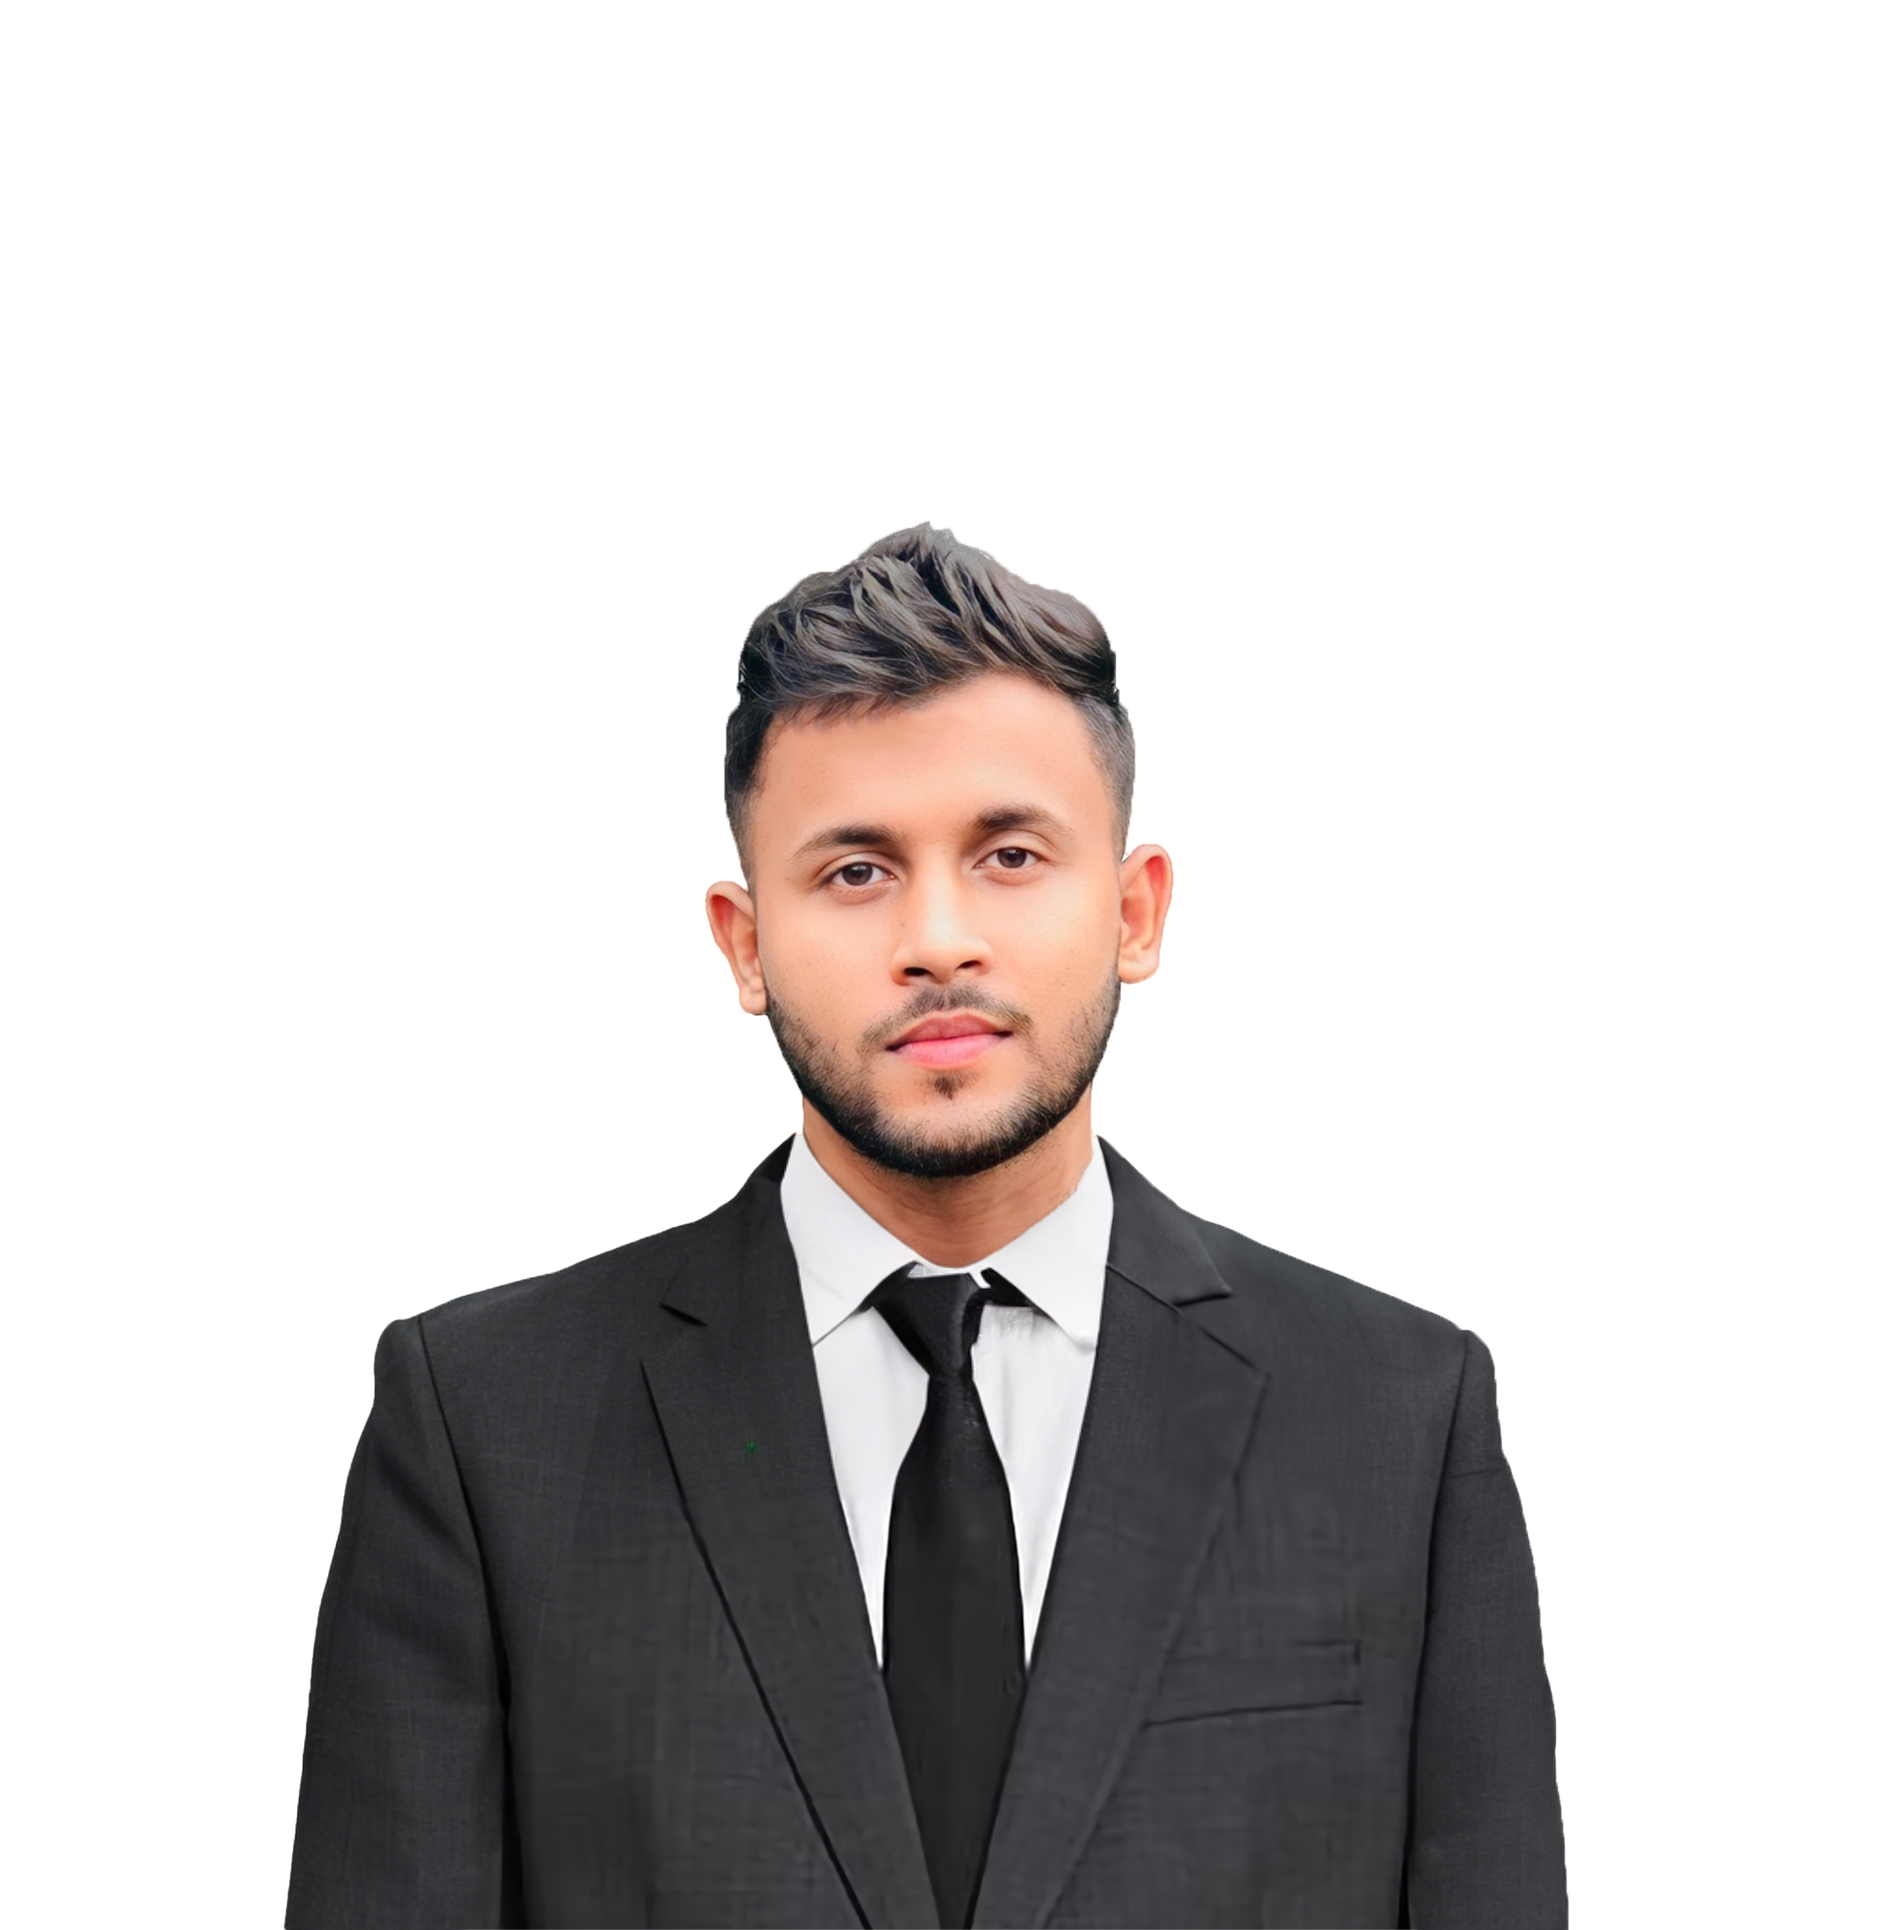
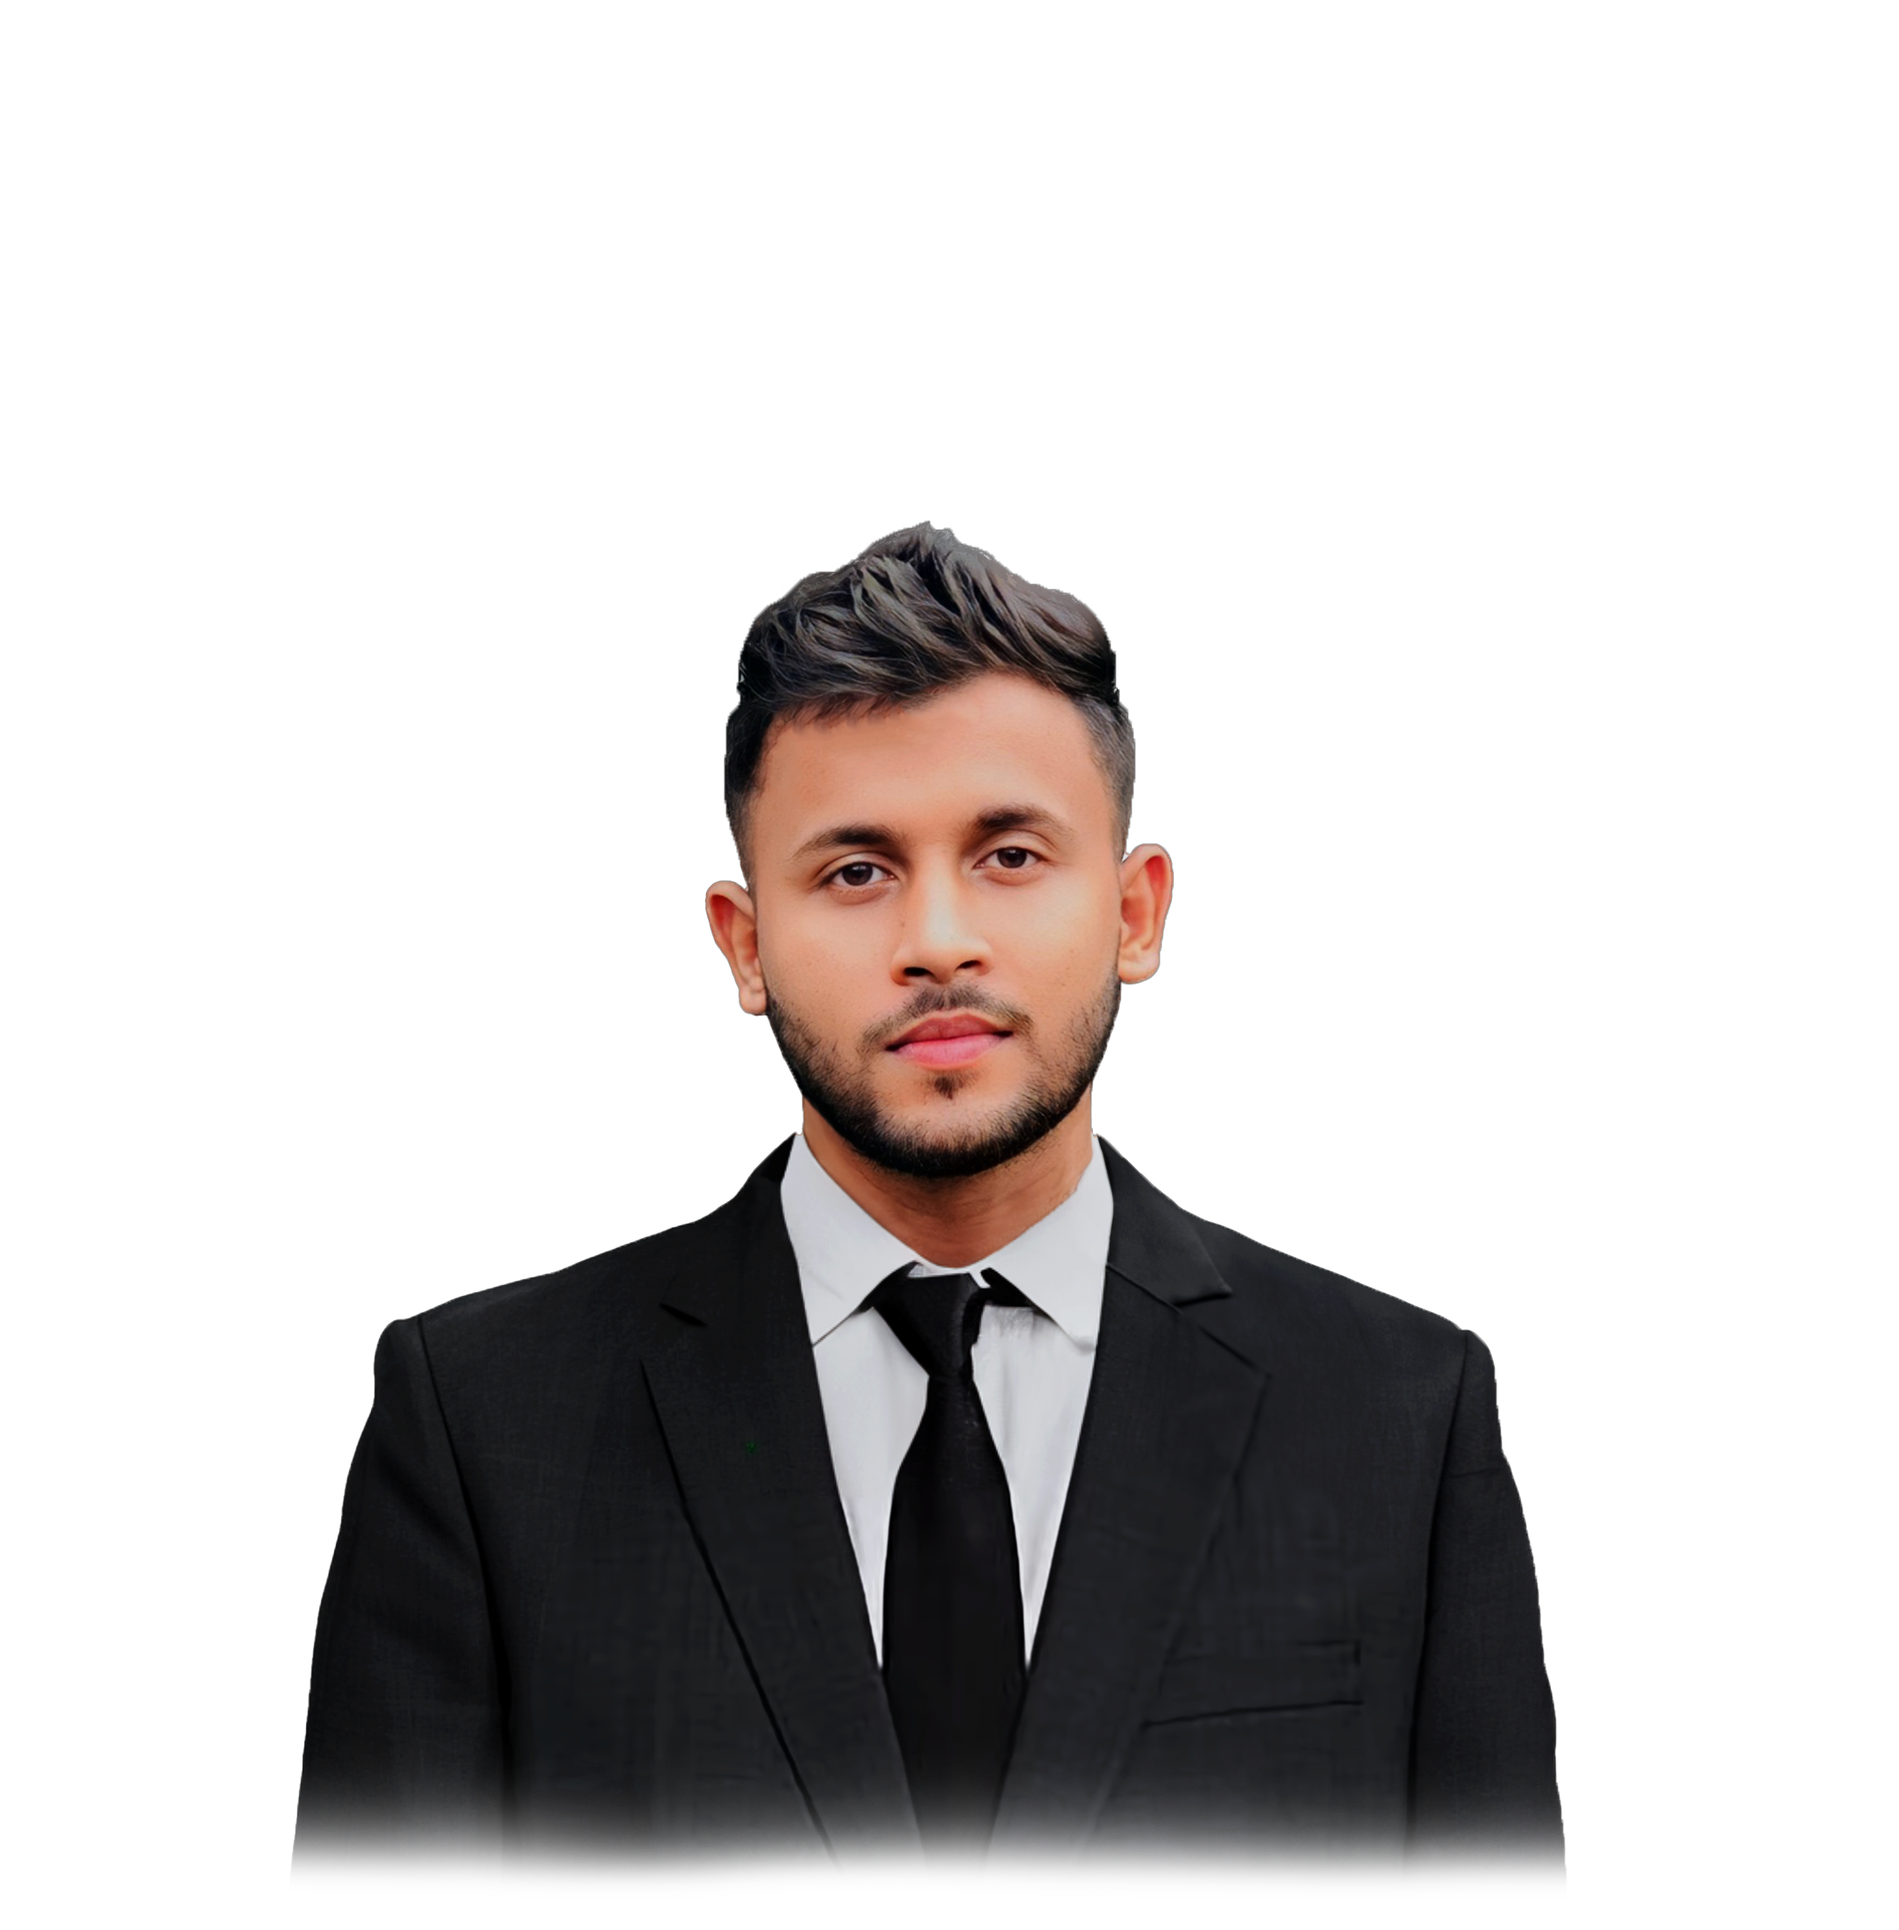
portfolio update

Changed region(s): [[0.1238, 0.2473, 0.8356, 1.0]]

diff --git a/Edu.html b/Edu.html
@@ -10,7 +10,6 @@
     <link href='https://unpkg.com/boxicons@2.1.4/css/boxicons.min.css' rel="stylesheet">
 </head>
 <body>
-    
    <div class="bg-img">
     <header class="header-box">
         <nav class="navbar">
@@ -20,31 +19,39 @@
                 <a href="index.html" style="color:cornflowerblue;">Home</a>
                 <a href="about.html">About</a>
                 <a href="contact.html">Contact</a>
-                 <a href="service.html">Service</a>
-                 <a href="Edu.html">Education</a>
-                </div>
-
+                <a href="service.html">Service</a>
+                <a href="Edu.html">Education</a>
+            </div>
         </nav>
-       
     </header>
-    <main class="about-box">
-        <div class="about-me">
-            <h1>
-                About me
-            </h1>
-            <div class="about-content">
-                <p>Certainly! As a frontend developer, my role is to bring creative designs to life on the web. I'm fluent in the languages of the web: HTML, CSS, and JavaScript. I take pride in crafting pixel-perfect, responsive layouts that work seamlessly across various devices and browsers.Collaboration is at the core of my work, as I liaise with designers to transform their concepts into code and with backend developers to integrate frontend and backend systems. My mission is to create visually appealing, user-friendly websites that leave a lasting impression.</p>
-                <h3>Email:<br><a href="#">jahidhasan19368@gmail.com</a></h3>
 
+
+
+    <main>
+
+        <div class="services">
+            <h1>
+                
+               <span style="color: rgb(255, 136, 0);">My</span>  Education
+            </h1>
+            <p>Craft a portfolio without prior services by highlighting skills, personal projects, and education. Establish an online presence, network, and emphasize transferable abilities to demonstrate your potential.</p>
+            <div class="service-box">
+                <div class="service-content">
+                   
+                </div>
             </div>
         </div>
     </main>
+
+
+
+
     <footer class="footer-box">
      <div class="footer-icon">
         <a href="https://www.facebook.com/Zahid.Hasan.672" target="_blank" class="fa-brands fa-facebook"></a>
         <a href="" class="fa-brands fa-twitter" target="_blank"></a>
-        <a href="" class="fa-brands fa-instagram"  target="_blank"></a>
-        <a target="_blank" href="https://github.com/ZaHiD-HaSaN-72" class="fa-brands fa-github"></a>
+        <a href="" class="fa-brands fa-instagram" target="_blank"></a>
+        <a href="https://github.com/ZaHiD-HaSaN-72" class="fa-brands fa-github" target="_blank"></a>
      </div>
      <div class="footer-end">
         <p>Copyright &copy;2023; Design by <a target="_blank" href="https://www.facebook.com/Zahid.Hasan.672" class="my-name">@Zahid</a>
@@ -52,9 +59,7 @@
      </div>
     </footer>
     <div id="cursor">
-        
     </div>
-    
    </div>
     <script src="script.js"></script>
 </body>

diff --git a/style.css b/style.css
@@ -96,9 +96,11 @@ body{
     width: 50%;
     background:url(images/jahid.png) ;
     background-repeat: no-repeat;
-    background-position: bottom;
+    background-position: bottom ;
     background-size: 550px;
-    filter: brightness(70%);
+    margin-bottom: 200px;
+    
+    /* filter: brightness(70%); */
    
 }
 
@@ -128,6 +130,7 @@ body{
    background: transparent;
    color: rgb(57, 216, 208);
    border: 1px solid rgb(57, 216, 208);
+   backdrop-filter: blur(2px);
    
    
 }
@@ -144,6 +147,7 @@ body{
    
     background-color: rgba(0, 0, 0, 0.434);
     height: 250px;
+    backdrop-filter: blur(3px);
 }
 .footer-icon{
     height: 150px;
@@ -220,6 +224,7 @@ body{
     height: 700px;
     border-radius: 20px;
     box-shadow: 2px 2px 15px black;
+    backdrop-filter:blur(2px) ;
 }
 .about-me>h1{
     
@@ -322,6 +327,7 @@ border-radius: 10px;
 padding-top: 20px;
 padding-left: 20px;
 box-shadow: -1px -1px 5px rgba(9, 9, 9, 0.574);
+backdrop-filter: blur(2px);
 }
 .right-section:hover{
 
@@ -382,6 +388,22 @@ transition: 0.5s;
     font-size: 17px;
     max-width: 900px;
 }
+.service-content{
+    display: flex;
+    justify-content: center;
+    gap: 20px;
+    flex-wrap: wrap;
+    
+}
+.service-content> div{
+    
+    height: 330px;
+    width: 230px;
+    background-color:rgba(28, 112, 97, 0.402) ;
+    box-shadow: 0 0 15px rgba(10, 11, 11, 0.715);
+   backdrop-filter: blur(2px);
+   border-radius: 3px;
+}
 /* service end */
 
 /* Responsive start */
@@ -409,6 +431,9 @@ transition: 0.5s;
     .nav-item {
         margin-right: 50px;
     }
+    .service-box{
+        height: 700px;
+    }
 }
 @media only screen and (max-width:600px){
     .navbar{
@@ -423,11 +448,11 @@ transition: 0.5s;
         left: -100%;
         width: 100%;
         padding: 10px 20px;
-        background-color: rgb(47, 120, 104);
+        background-color: rgba(83, 31, 204, 0.059);
         box-shadow: 3px 3px 5px rgba(0, 0, 0, 0.314);
         transition: 0.25s ease;
         transition-delay: 0.25s;
-
+        backdrop-filter: blur(3px);
     }
     .nav-item.active{
         transition-delay: 0s;
@@ -450,9 +475,13 @@ transition: 0.5s;
         border: 2px solid black;
         border-radius: 50%;
         width: 300px;
+        background-image: url(images/jahid1.png);
+        backdrop-filter: blur(2px);
+        
+     
     }
     .banner-right:hover{
-        box-shadow: -2px -1px 20px rgb(215, 111, 235);
+        box-shadow: -2px -1px 20px rgb(42, 255, 216);
         transition: 0.4s;
     }
     .banner-left{
@@ -492,8 +521,16 @@ transition: 0.5s;
     .about-content>p{
         font-size: 18px;
     }
+    .service-box{
+        height: 700px;
+    }
     .footer-box {
         background-color: rgba(0, 0, 0, 0.434);
         height: 445px;
+    }
+}
+@media only screen and (max-width:490px){
+    .service-box{
+        height: 1065px;
     }
 }

diff --git a/service.html b/service.html
@@ -20,10 +20,15 @@
                 <a href="about.html">About</a>
                 <a href="contact.html">Contact</a>
                 <a href="service.html">Service</a>
+                <a href="Edu.html">Education</a>
             </div>
         </nav>
     </header>
+
+
+
     <main>
+
         <div class="services">
             <h1>
                 
@@ -31,10 +36,18 @@
             </h1>
             <p>Craft a portfolio without prior services by highlighting skills, personal projects, and education. Establish an online presence, network, and emphasize transferable abilities to demonstrate your potential.</p>
             <div class="service-box">
-               <P>NO SERVICES__;]</P>
+                <div class="service-content">
+                    <div></div>
+                    <div></div>
+                    <div></div>
+                </div>
             </div>
         </div>
     </main>
+
+
+
+
     <footer class="footer-box">
      <div class="footer-icon">
         <a href="https://www.facebook.com/Zahid.Hasan.672" target="_blank" class="fa-brands fa-facebook"></a>

diff --git a/index.html b/index.html
@@ -22,6 +22,7 @@
                 <a href="about.html">About</a>
                 <a href="contact.html">Contact</a>
                 <a href="service.html">Service</a>
+                <a href="Edu.html">Education</a>
             
         </nav>
     
@@ -44,7 +45,7 @@
             </div>
             <div class="banner-right">
                 
-                <!-- <img src="jahid.png" alt="" class="my-png"> -->
+                
             </div>
         </div>
                     

diff --git a/contact.html b/contact.html
@@ -21,6 +21,7 @@
                 <a href="about.html">About</a>
                 <a href="contact.html">Contact</a>
                 <a href="service.html">Service</a>
+                <a href="Edu.html">Education</a>
             </div>
         </nav>
        
